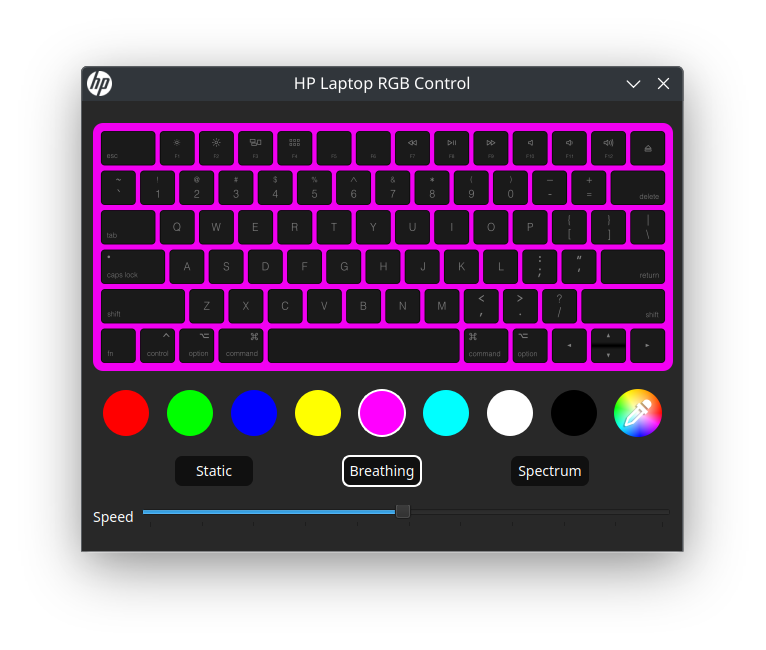
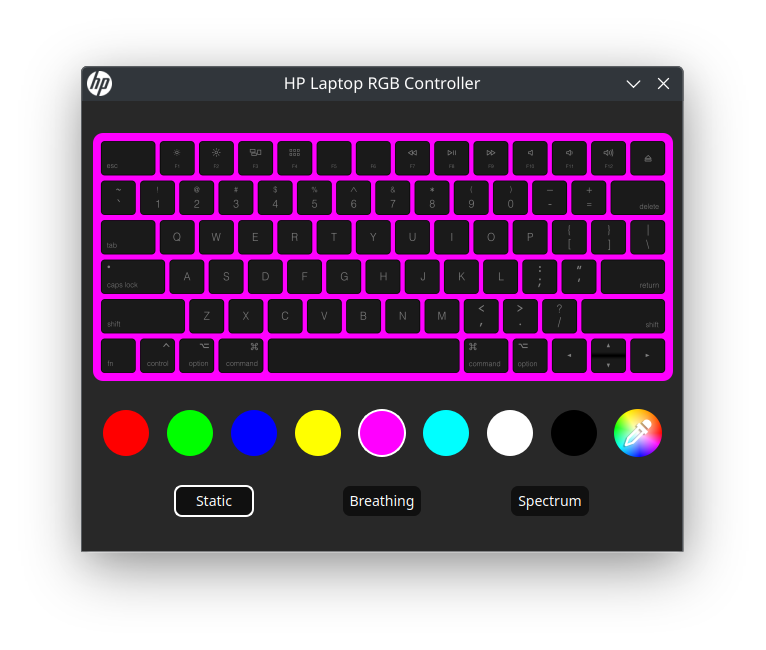
Installation files added

Changed region(s): [[0.1201, 0.1846, 0.9008, 0.8308], [0.3603, 0.0923, 0.6305, 0.1538], [0.6606, 0.7692, 0.7807, 0.8]]

diff --git a/ui/main_window.py b/ui/main_window.py
@@ -60,7 +60,7 @@ class MainWindow(QMainWindow):
         return tray_menu
     
     def initUI(self):
-        self.setWindowTitle("HP Laptop RGB Control")
+        self.setWindowTitle("HP Laptop RGB Controller")
         self.setWindowIcon(QIcon("assets/hp_logo.png"))
 
         # Create and configure the keyboard image label
